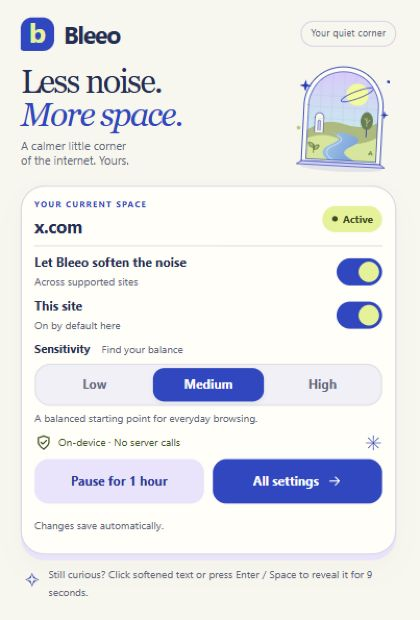
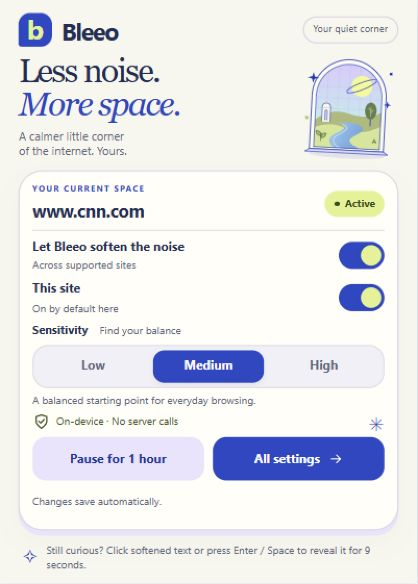
Fix popup width collapsing and unwanted scrolling

diff --git a/public/popup.css b/public/popup.css
@@ -1,10 +1,11 @@
-body {
+/* Keep toolbar popup autosizing independent of its initial viewport width. */
+html, body {
   width: 400px;
-  max-width: 100vw;
+  min-width: 400px;
 }
 
 .shell {
-  padding: 16px 20px 12px;
+  padding: 12px 18px 10px;
 }
 
 .brand-tag {
@@ -19,10 +20,10 @@ body {
 
 .hero-content {
   display: grid;
-  grid-template-columns: 1fr 102px;
+  grid-template-columns: 1fr 96px;
   align-items: center;
   gap: 6px;
-  padding: 8px 0 10px;
+  padding: 6px 0 8px;
 }
 
 .display-title {
@@ -40,14 +41,15 @@ body {
 
 .garden {
   display: block;
-  width: 102px;
+  width: 96px;
   height: auto;
   transform: rotate(3deg);
 }
 
 .panel {
   display: grid;
-  gap: 6px;
+  grid-template-columns: minmax(0, 1fr);
+  gap: 5px;
   padding: 12px;
   border: 1px solid #d8d7e4;
   border-radius: 23px;
@@ -79,7 +81,9 @@ body {
   font-size: 17px;
   font-weight: 650;
   letter-spacing: -.4px;
-  overflow-wrap: anywhere;
+  overflow: hidden;
+  text-overflow: ellipsis;
+  white-space: nowrap;
 }
 
 .state-chip {
@@ -169,7 +173,7 @@ body {
 .privacy-spark {
   margin-left: auto;
   color: var(--accent);
-  font-size: 20px;
+  font-size: 18px;
   line-height: 1;
 }
 
@@ -190,7 +194,7 @@ body {
   margin: 12px 3px 0;
   color: var(--muted);
   font-size: 10px;
-  line-height: 1.6;
+  line-height: 1.4;
 }
 
 .reveal-tip > span {

diff --git a/src/popup/index.ts b/src/popup/index.ts
@@ -25,7 +25,9 @@ function render() {
   siteInput.checked = available && settings.sitePreferenceEnabled;
   sensitivityInputs.forEach((input) => { input.checked = input.value === settings!.sensitivity; });
   document.querySelector("#sensitivity-help")!.textContent = SENSITIVITY_HELP[settings.sensitivity];
-  document.querySelector("#hostname")!.textContent = hostname || "Browser page";
+  const hostnameElement = document.querySelector<HTMLElement>("#hostname")!;
+  hostnameElement.textContent = hostname || "Browser page";
+  hostnameElement.title = hostname || "Browser page";
   const status = getPageStatus(settings, available);
   const chip = document.querySelector<HTMLElement>("#state-chip")!;
   chip.textContent = status === "Filtering" ? "Active" : status;
